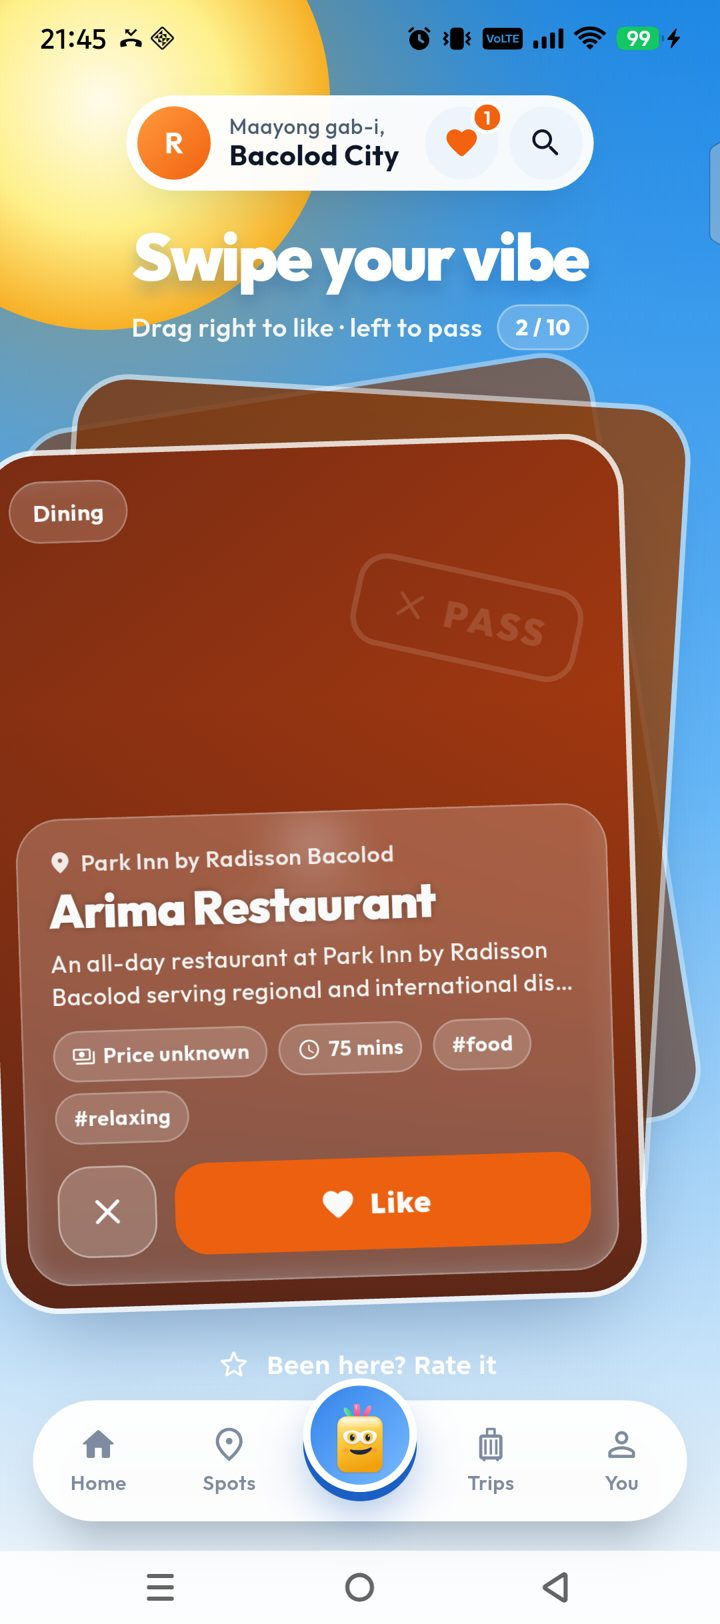
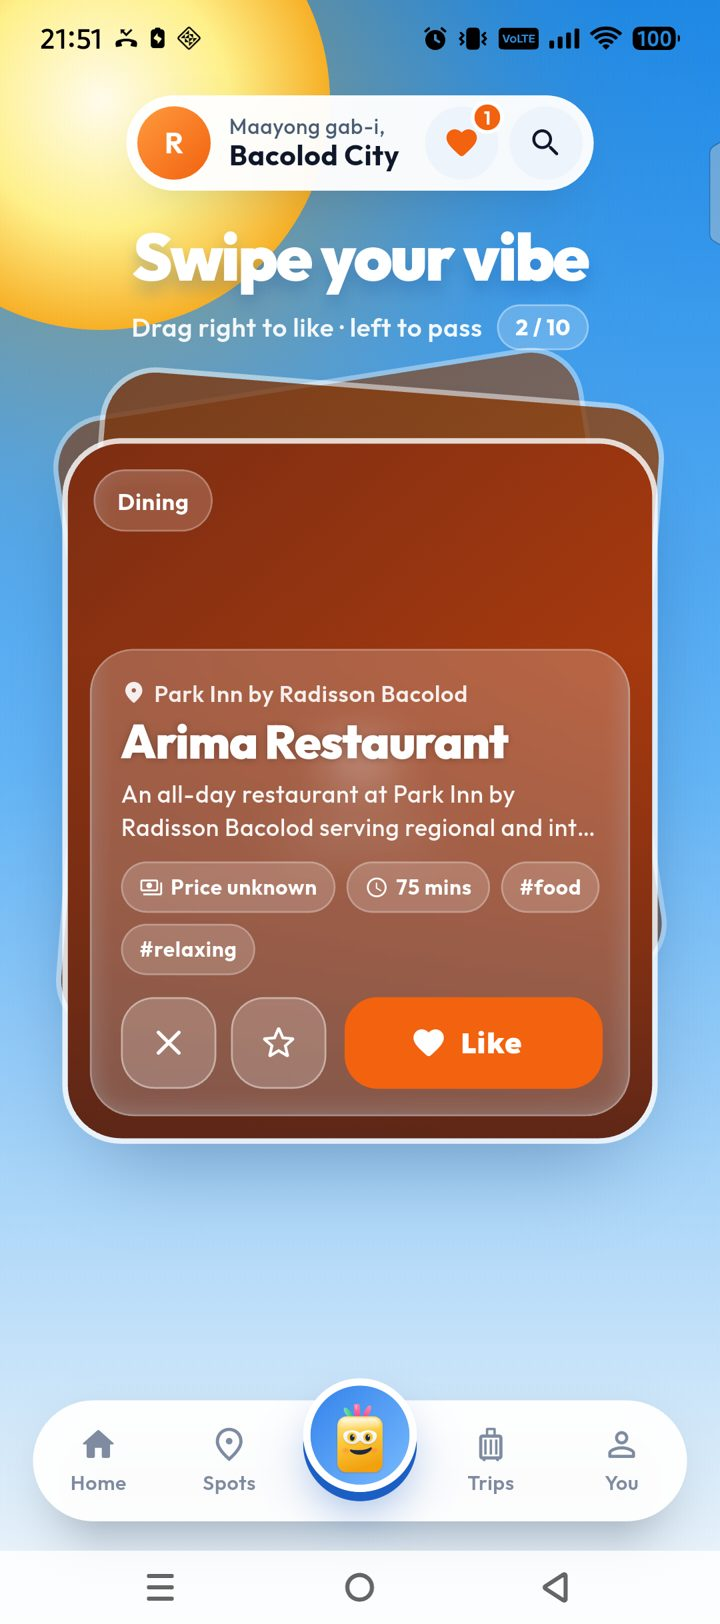
feat: smaller swipe cards and a star rate button between Pass and Like

diff --git a/frontend/lib/screens/swipe/swipe_deck.dart b/frontend/lib/screens/swipe/swipe_deck.dart
@@ -98,7 +98,7 @@ class _SwipeDeckState extends State<SwipeDeck>
   @override
   Widget build(BuildContext context) {
     final w = MediaQuery.sizeOf(context).width;
-    final cardHeight = (w * 1.2).clamp(400.0, 500.0);
+    final cardHeight = (w * 0.98).clamp(340.0, 410.0);
     return Column(
       crossAxisAlignment: CrossAxisAlignment.stretch,
       children: [
@@ -157,53 +157,33 @@ class _SwipeDeckState extends State<SwipeDeck>
           ],
         ),
         const SizedBox(height: 22),
-        SizedBox(
-          height: cardHeight + 26,
-          child: Stack(
-            clipBehavior: Clip.none,
-            alignment: Alignment.bottomCenter,
-            children: [
-              // The next places, tilted behind like a stack of photos.
-              for (final (i, next)
-                  in widget.upNext.take(2).indexed.toList()
-                    ..sort((a, b) => b.$1.compareTo(a.$1)))
-                _BackCard(
-                  key: ValueKey('swipe-next-${next.id}'),
-                  place: next,
-                  height: cardHeight,
-                  depth: i + 1,
-                  // The card behind leans in as you drag the top one away.
-                  lift: i == 0 ? (_drag.abs() / 160).clamp(0.0, 1.0) : 0,
-                ),
-              _frontCard(cardHeight),
-            ],
-          ),
-        ),
-        const SizedBox(height: 10),
-        Center(
-          child: TextButton.icon(
-            key: const ValueKey('swipe-rate'),
-            onPressed: widget.busy ? null : widget.onRate,
-            style: TextButton.styleFrom(
-              foregroundColor: Colors.white,
-              textStyle: const TextStyle(
-                fontSize: 14,
-                fontWeight: FontWeight.w700,
-              ),
-            ),
-            icon: Icon(
-              widget.rating == null
-                  ? Icons.star_border_rounded
-                  : Icons.star_rounded,
-              size: 20,
-            ),
-            label: Text(
-              widget.rating == null
-                  ? 'Been here? Rate it'
-                  : 'You rated it ${widget.rating!.toStringAsFixed(widget.rating! % 1 == 0 ? 0 : 1)} · Rate again',
+        Padding(
+          // Inset so the whole card reads smaller, not just shorter.
+          padding: const EdgeInsets.symmetric(horizontal: 14),
+          child: SizedBox(
+            height: cardHeight + 26,
+            child: Stack(
+              clipBehavior: Clip.none,
+              alignment: Alignment.bottomCenter,
+              children: [
+                // The next places, tilted behind like a stack of photos.
+                for (final (i, next)
+                    in widget.upNext.take(2).indexed.toList()
+                      ..sort((a, b) => b.$1.compareTo(a.$1)))
+                  _BackCard(
+                    key: ValueKey('swipe-next-${next.id}'),
+                    place: next,
+                    height: cardHeight,
+                    depth: i + 1,
+                    // The card behind leans in as you drag the top one away.
+                    lift: i == 0 ? (_drag.abs() / 160).clamp(0.0, 1.0) : 0,
+                  ),
+                _frontCard(cardHeight),
+              ],
             ),
           ),
         ),
+        const SizedBox(height: 6),
         if (widget.error != null)
           Container(
             key: const ValueKey('swipe-error'),
@@ -305,8 +285,10 @@ class _SwipeDeckState extends State<SwipeDeck>
                       child: _InfoPanel(
                         spot: spot,
                         busy: widget.busy,
+                        rating: widget.rating,
                         onPass: () => _swipe(false),
                         onLike: () => _swipe(true),
+                        onRate: widget.onRate,
                       ),
                     ),
                     // Drag feedback: the card warms toward Like or Pass.
@@ -405,14 +387,18 @@ class _Glass extends StatelessWidget {
 class _InfoPanel extends StatelessWidget {
   final LocationItem spot;
   final bool busy;
+  final double? rating;
   final VoidCallback onPass;
   final VoidCallback onLike;
+  final VoidCallback onRate;
 
   const _InfoPanel({
     required this.spot,
     required this.busy,
+    required this.rating,
     required this.onPass,
     required this.onLike,
+    required this.onRate,
   });
 
   @override
@@ -489,27 +475,50 @@ class _InfoPanel extends StatelessWidget {
           const SizedBox(height: 12),
           Row(
             children: [
-              Semantics(
-                button: true,
+              _square(
+                key: const ValueKey('swipe-pass'),
                 label: 'Pass',
-                child: GestureDetector(
-                  key: const ValueKey('swipe-pass'),
-                  onTap: busy ? null : onPass,
-                  child: Container(
-                    width: 54,
-                    height: 50,
-                    decoration: BoxDecoration(
-                      color: const Color(0x33FFFFFF),
-                      borderRadius: BorderRadius.circular(18),
-                      border: Border.all(color: const Color(0x66FFFFFF)),
-                    ),
-                    child: const Icon(
-                      Icons.close_rounded,
-                      size: 24,
-                      color: Colors.white,
-                    ),
-                  ),
+                onTap: busy ? null : onPass,
+                child: const Icon(
+                  Icons.close_rounded,
+                  size: 24,
+                  color: Colors.white,
                 ),
+              ),
+              const SizedBox(width: 8),
+              // Been here? Rate it. Shows your stars once rated.
+              _square(
+                key: const ValueKey('swipe-rate'),
+                label: rating == null
+                    ? 'Rate this place'
+                    : 'You rated it ${_stars(rating!)}. Rate again',
+                onTap: busy ? null : onRate,
+                child: rating == null
+                    ? const Icon(
+                        Icons.star_border_rounded,
+                        size: 24,
+                        color: Colors.white,
+                      )
+                    : Row(
+                        mainAxisSize: MainAxisSize.min,
+                        children: [
+                          const Icon(
+                            Icons.star_rounded,
+                            size: 20,
+                            color: Color(0xFFFFD166),
+                          ),
+                          const SizedBox(width: 2),
+                          Text(
+                            _stars(rating!),
+                            key: const ValueKey('swipe-rating'),
+                            style: const TextStyle(
+                              fontSize: 14,
+                              fontWeight: FontWeight.w800,
+                              color: Colors.white,
+                            ),
+                          ),
+                        ],
+                      ),
               ),
               const SizedBox(width: 10),
               Expanded(
@@ -548,6 +557,36 @@ class _InfoPanel extends StatelessWidget {
             ],
           ),
         ],
+      ),
+    );
+  }
+
+  static String _stars(double r) => r.toStringAsFixed(r % 1 == 0 ? 0 : 1);
+
+  Widget _square({
+    required Key key,
+    required String label,
+    required VoidCallback? onTap,
+    required Widget child,
+  }) {
+    return Semantics(
+      button: true,
+      label: label,
+      child: GestureDetector(
+        key: key,
+        onTap: onTap,
+        child: Container(
+          constraints: const BoxConstraints(minWidth: 52),
+          height: 50,
+          padding: const EdgeInsets.symmetric(horizontal: 10),
+          alignment: Alignment.center,
+          decoration: BoxDecoration(
+            color: const Color(0x33FFFFFF),
+            borderRadius: BorderRadius.circular(18),
+            border: Border.all(color: const Color(0x66FFFFFF)),
+          ),
+          child: child,
+        ),
       ),
     );
   }

diff --git a/frontend/test/swipe_deck_test.dart b/frontend/test/swipe_deck_test.dart
@@ -72,6 +72,12 @@ void main() {
     await pump(tester);
     await tester.tap(find.byKey(const ValueKey('swipe-like')));
     await tester.tap(find.byKey(const ValueKey('swipe-pass')));
+    // Rating is the star between Pass and Like.
+    final pass = tester.getCenter(find.byKey(const ValueKey('swipe-pass')));
+    final star = tester.getCenter(find.byKey(const ValueKey('swipe-rate')));
+    final like = tester.getCenter(find.byKey(const ValueKey('swipe-like')));
+    expect(pass.dx < star.dx && star.dx < like.dx, isTrue);
+    expect(find.text('Been here? Rate it'), findsNothing);
     await tester.tap(find.byKey(const ValueKey('swipe-rate')));
     expect(events, ['like', 'pass', 'rate']);
   });

diff --git a/frontend/test/discovery_interactions_test.dart b/frontend/test/discovery_interactions_test.dart
@@ -339,7 +339,14 @@ void main() {
       await tapKey(tester, 'rating-submit');
 
       expect(jsonDecode(backend.posts.single.body)['rating_value'], 4.0);
-      expect(find.text('You rated it 4 · Rate again'), findsOneWidget);
+      // The star button now shows the rating.
+      expect(
+        find.descendant(
+          of: find.byKey(const ValueKey('swipe-rate')),
+          matching: find.text('4'),
+        ),
+        findsOneWidget,
+      );
     });
 
     testWidgets('a failed history load blocks the deck with Retry', (

diff --git a/docs/sprint-log.md b/docs/sprint-log.md
@@ -1021,3 +1021,4 @@ is a different operation and was not triggered. See the
 - **Feedback round (Roel):** the open Spots card drops its duplicate heart (Save stays); the Spots title and count are centered with the piaya moved up beside them; on home the piaya and carabao moved down beside the See pill. Travel preferences was redesigned from a full page into a pop-up card over the blurred app in the home/Spots style (sky header with elements and logo, orange pills, smooth step cross-fades), keeping the same data, validation and saving. `flutter test` passes 260 tests; verified on the Infinix. During checks, a test Save on Calea stayed on account B because the app can't remove saves yet.
 - **Feedback round (Roel):** the Spots pop-up became a smooth container-transform morph (no mid-animation size switch or reflow). Trips, You and Picked for you were redesigned in the home/Spots style: centered titles, white cards, orange pills. You now has a profile hero with an avatar pencil (photo upload is a placeholder), travel preferences in full or a button to take them, and two liked places with See all. Floating elements are now one shared layer with a set per tab that glides between pages. `flutter test` passes 266 tests; verified on the Infinix except Picked for you, which needs a preferences save on the test account.
 - **Feedback round (Roel):** Swipe your vibe was redesigned to match the other pages: centered title and count, full-photo cards with the next places stacked behind, and a frosted panel with Pass and an orange Like. Dragging tilts the card with a LIKE or PASS stamp and springs back on short drags. Saving swipes, the pass explainer and rating are unchanged. `flutter test` passes 270 tests (4 new); verified on the Infinix.
+- **Feedback round (Roel):** swipe cards are smaller, and rating moved from the "Been here? Rate it" link to a star button between Pass and Like that shows the stars once rated. `flutter test` passes 270 tests; verified on the Infinix.

diff --git a/docs/evidence/home-redesign-v3.md b/docs/evidence/home-redesign-v3.md
@@ -139,5 +139,7 @@ Roel asked for the swipe page to match the other pages, with the title centered 
 
 | Shot | Check | Result |
 | --- | --- | --- |
-| [swipe_v3](img/home-v3-android/swipe_v3.jpg) | Centered title and count, stacked cards, frosted panel with × and Like | Pass |
+| [swipe_v3](img/home-v3-android/swipe_v3.jpg) | Centered title and count, smaller stacked cards, frosted panel with ×, ☆ and Like | Pass |
 | Drag recording (frames reviewed, not committed) | Partial right drag: tilt, LIKE stamp, back card leans in, springs back; no swipe sent (still 2/10) | Pass |
+
+Follow-up (Roel): the cards are smaller (narrower, and about 0.98 × the screen width tall, 340–410 pt). "Been here? Rate it" is gone. Rating is now a star button between × and Like, which shows your stars once you rate (for example ★ 4).
